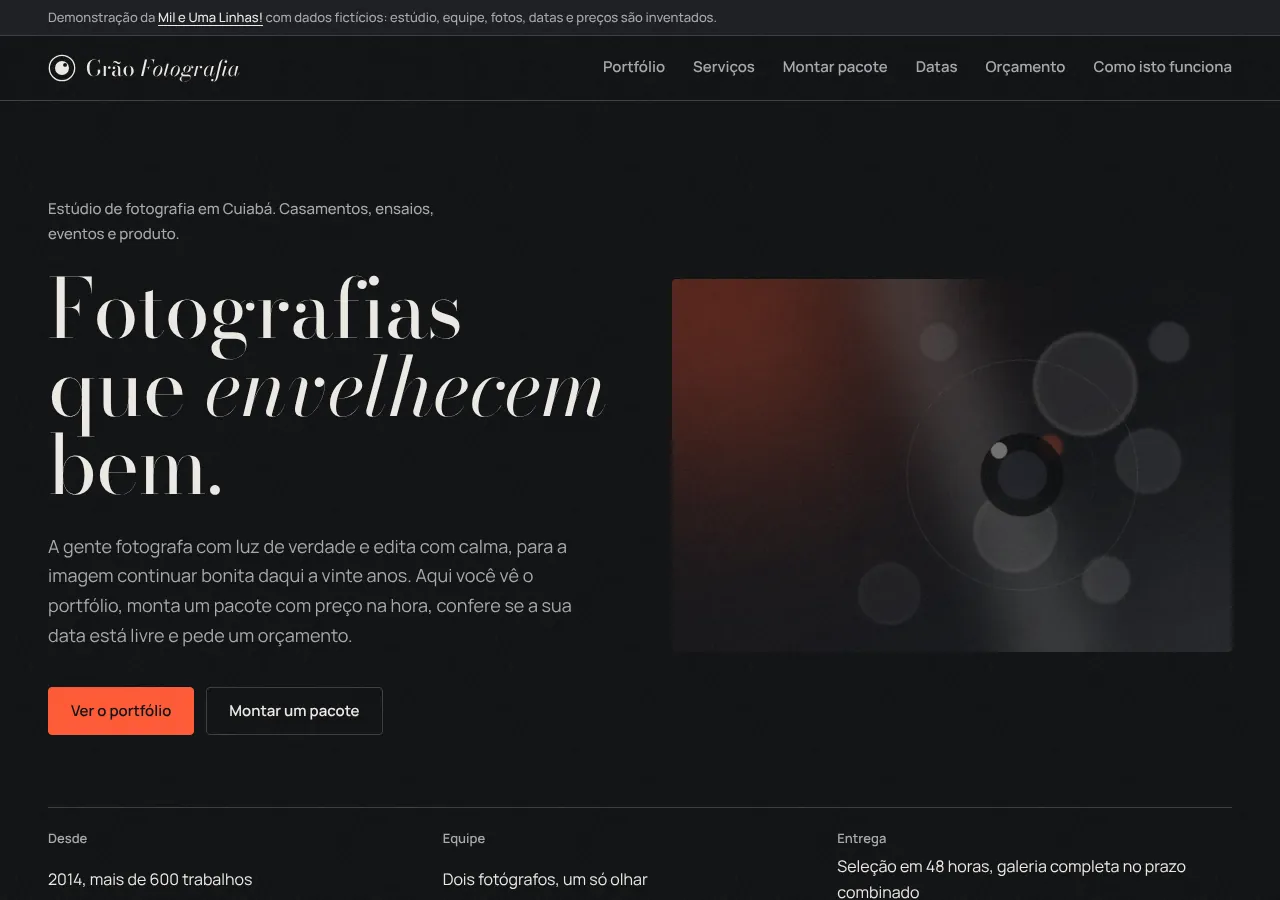
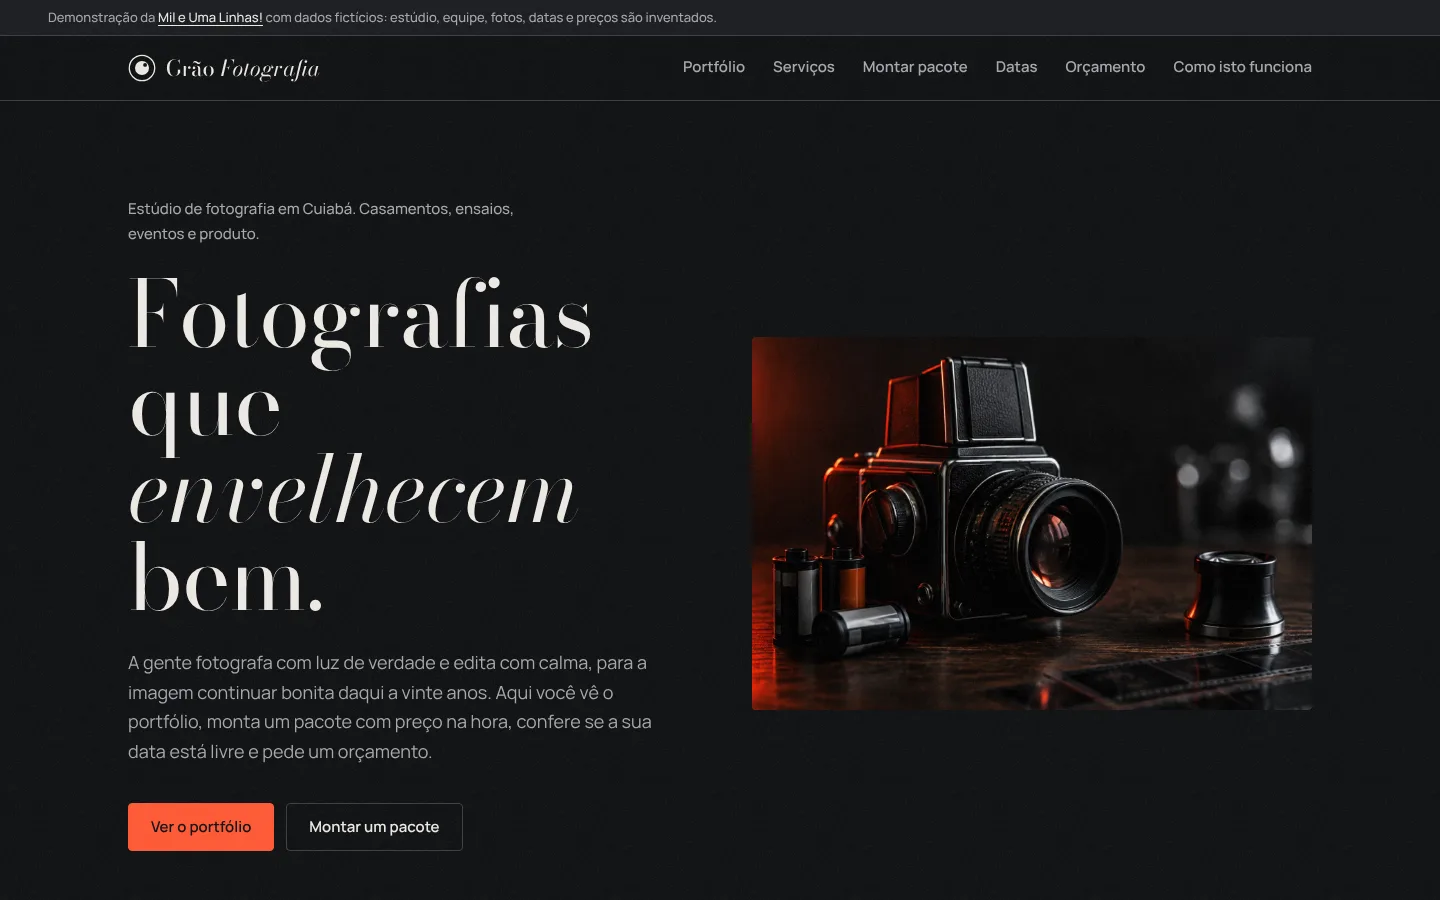
Troca o hero por foto gerada no Canva
Substitui img/hero.webp, antes uma composicao provisoria feita com
Pillow, por uma foto gerada por IA no Canva a partir do prompt da secao
"Foto do hero" de docs/identidade.md. Ajusta largura, altura e texto
alternativo da imagem no index.html, o teste de largura em
tests/site.cjs, o README e a documentacao, e refaz as capturas
docs/capa-desktop.webp e docs/capa-celular.webp. Testes em 1280x900,
iPhone 13 e 320px passando.

Claude-Session: https://claude.ai/code/session_015DVsuVad392kn1wvAjF541

diff --git a/index.html b/index.html
@@ -60,7 +60,7 @@
           </div>
         </div>
         <figure class="hero-figura">
-          <img class="hero-foto" src="img/hero.webp" width="1600" height="1067" alt="Composição abstrata nas cores do estúdio: fundo quase preto com um halo vermelho de sala de revelação, círculos de luz desfocada em prata e um anel de lente ao centro." fetchpriority="high">
+          <img class="hero-foto" src="img/hero.webp" width="1620" height="1080" alt="Câmera de fotografia sobre mesa de trabalho em luz suave, com a lente em primeiro plano." fetchpriority="high">
         </figure>
         <dl class="hero-fatos">
           <div><dt>Desde</dt><dd>2014, mais de 600 trabalhos</dd></div>

diff --git a/README.md b/README.md
@@ -49,7 +49,7 @@ Estudo completo em [docs/identidade.md](docs/identidade.md). Resumo:
 - **Paleta:** Breu `#111214` (fundo), Chumbo `#1C1E22` (superfícies), Grafite `#3B3F46` (bordas), Papel fotográfico `#EDEAE4` (texto), Prata `#A6A9AF` (texto de apoio) e Luz de segurança `#FF5A36` (o único destaque, um por tela).
 - **Fontes:** Bodoni Moda (títulos e números grandes, com o tamanho óptico no máximo para as serifas virarem fio) e Manrope (texto e interface). Ambas locais, SIL OFL.
 - **Por quê:** escolhi o fundo escuro de sala de revelação, não o branco de galeria, porque em site de fotógrafo a única coisa que pode brilhar é a foto. A luz vermelha de sala escura é a cor mais específica do universo da fotografia; o grão fino sobre a página inteira é o detalhe que dá nome ao estúdio. Fugi do preto com dourado e da letra cursiva de convite de casamento: o itálico da Bodoni em uma palavra por título faz o papel editorial.
-- **Imagem forte:** uma fotografia no hero, em contêiner 3:2. A imagem atual em `img/hero.webp` é provisória, gerada em código nas cores da identidade; o prompt para a foto definitiva está em `docs/identidade.md`.
+- **Imagem forte:** uma fotografia no hero, em contêiner 3:2. A imagem em `img/hero.webp` é uma foto gerada por IA no Canva (1620x1080), feita a partir do prompt da seção "Foto do hero" de `docs/identidade.md`. As fotos do portfólio continuam provisórias.
 
 ## Como funciona por dentro
 
